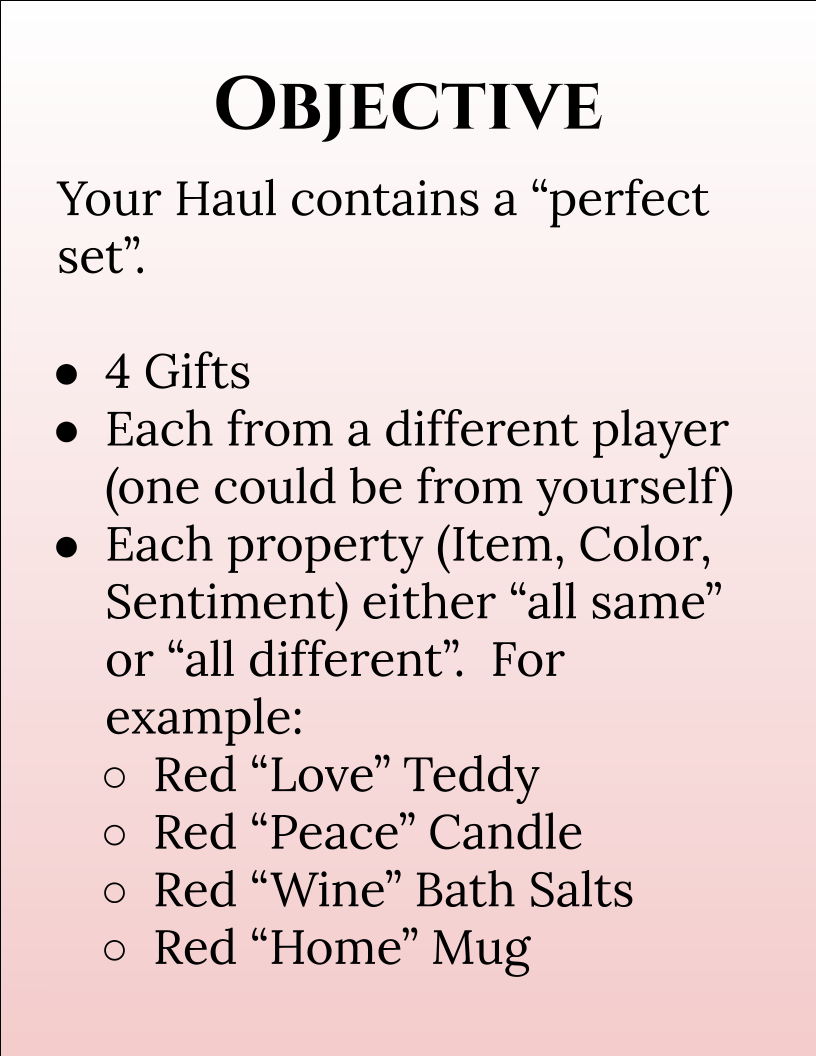
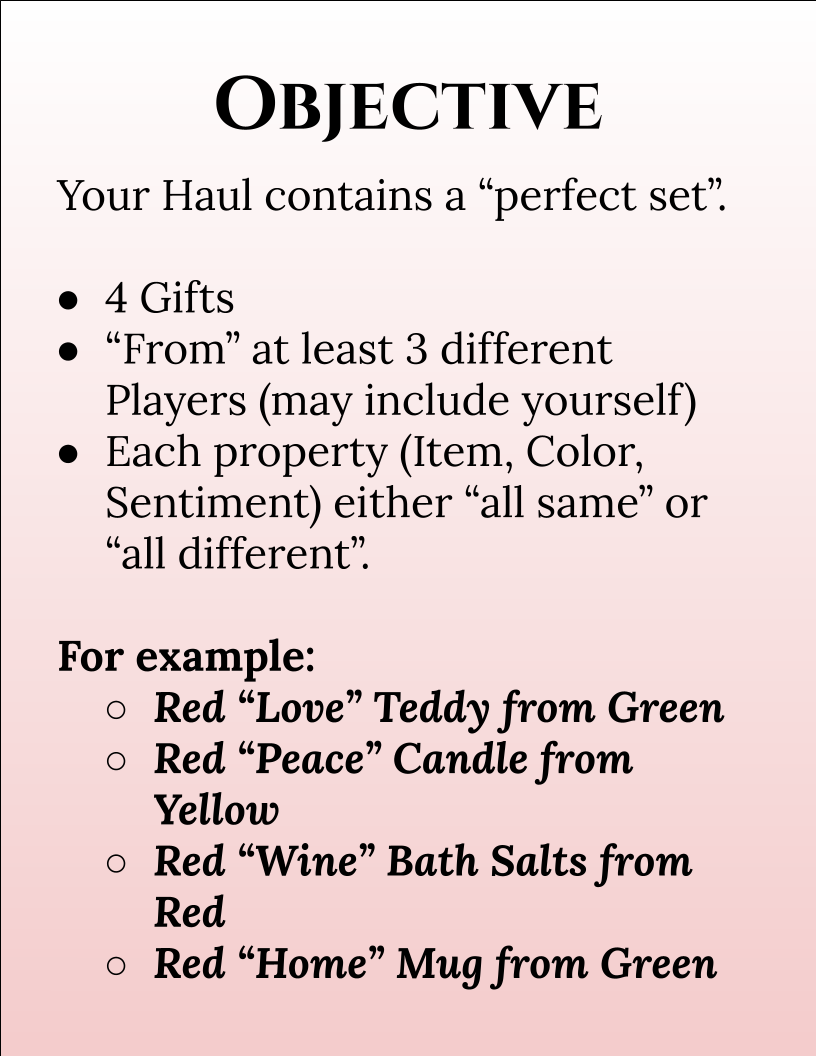
latest

diff --git a/screentop-rules-2026-09-08.md b/screentop-rules-2026-09-08.md
@@ -18,7 +18,7 @@ A Gift has 3 properties:
 
 The object of the game is to create a "Perfect Set" of 4 Gifts:
 
-- Each gift is **From** a different player.
+- Gifts are "From" at least 3 different players.
 - For each of "Item", "Color" and "Sentiment", the values are either all the same or all different.
 
 e.g.
@@ -26,13 +26,13 @@ e.g.
 - Red "Love" Teddy from Red Player
 - Red "Peace" Teddy from Green Player
 - Red "Wine" Teddy from Blue Player
-- Red "Home" Teddy from Yellow Player
+- Red "Home" Teddy from Green Player
 
 Is a perfect set:
 
 - The Colors and Items are all the same
 - The Sentiments are all different
-- Each item is from a different player.
+- Gifts are from at least 3 different players.
 
 ## Concepts/Areas
 
@@ -124,7 +124,7 @@ The starting player then:
 
 ## Distribute Packages
 
-Starting with the Starting player and proceeding clockwise each player selects a Package from the Pile and adds it to the topmost open space in their Queue.
+Starting with the Starting player and proceeding clockwise each player selects a Package from the Pile and adds it to **any** open space in their Queue.
 
 - If the Package Pile contains any Packages "To" the active player, they must select one of those Packages.
 - Otherwise they may select any Package, even if it is "To" another player.
@@ -146,15 +146,15 @@ Starting with the Starting Player and proceeding clockwise, each "In" player may
   - They may take a "Secret" token.
 
 - If a player has a "Secret" Token:
-  - They may spend it at the beginning of an Open phase.
-  - When opening a Gift, if it is not a Fruitcake, they may keep the card facedown in the Queue and if/when it is moved to the Haul.
+  - They may spend it at the beginning of an Open Packages phase.
+  - When opening a Gift, they may look at it in secret. If it is not a Fruitcake, they may keep the card facedown in the Queue and if/when it is moved to the Haul.
 
 ## Reset
 
 Each player:
 
 - Move "To" and "From" tokens left in queue to personal token supply: take more tokens until they have 6.
-- Move any "Gifts" from opened and opened Packages in the queue into their Gift Closet (thitos includes any Fruitcakes opened).
+- Move any "Gifts" from opened and unopened Packages in the queue into their Gift Closet (this includes any Fruitcakes opened).
 - Place Pakcages from queue into Workspace.
 - Draw Gifts to refill Closet to 4 cards, if needed.
 - Pass Starting Player clockwise.
@@ -166,7 +166,7 @@ A player wins if, at the end of a round, they can assemble a "Perfect Set" from 
 A perfect set is 4 gift where:
 
 - Each property (Item, Color, and Sentiment) is either "all same" or "all different"
-- Each gift is from a different player.
+- Gifts are "From" at least 3 different players.
 
 If more than one player has a perfect set, resolve in order:
 
